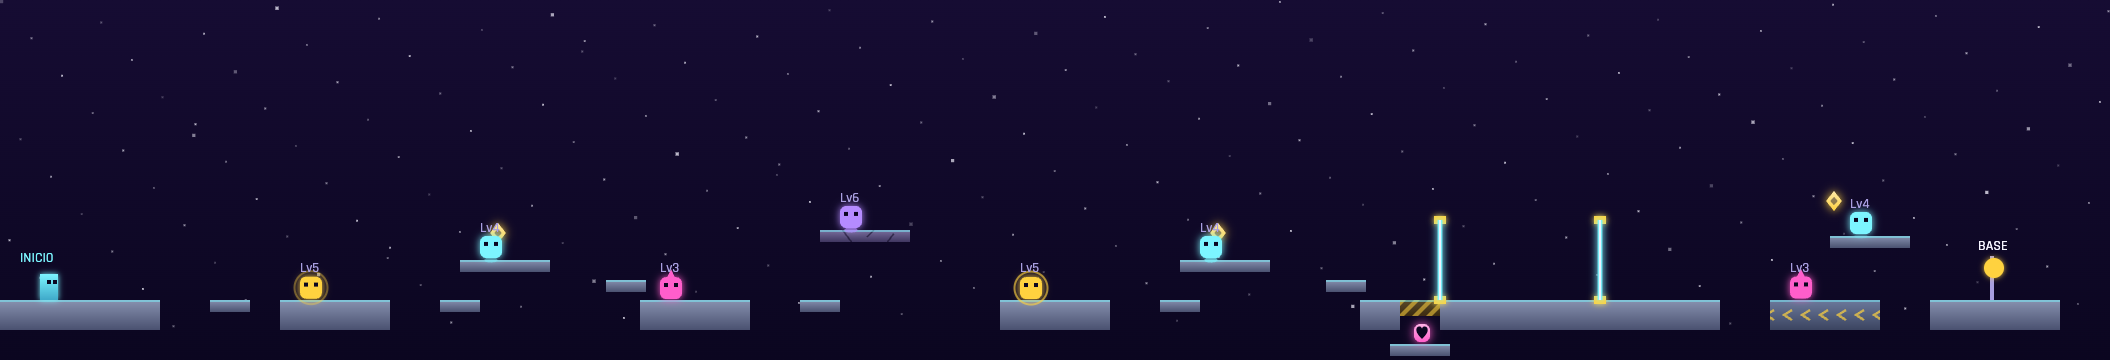
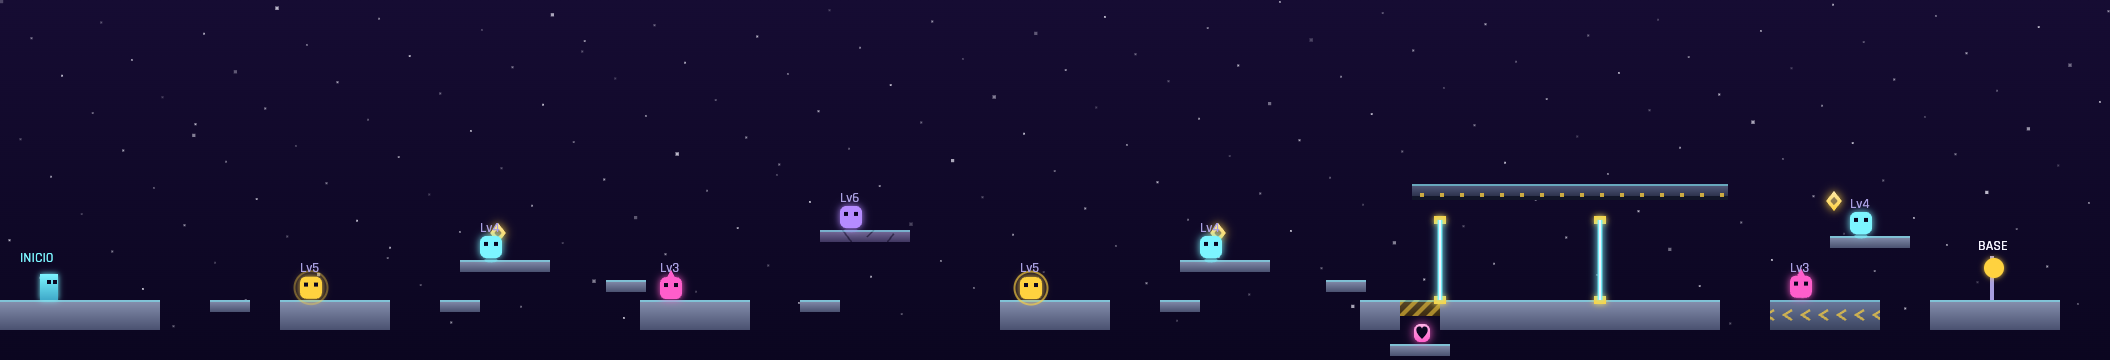
Techos macizos: la única plataforma que no se atraviesa desde abajo
El motor no tiene colisión de techo a propósito — todo se atraviesa
saltando. El variant 'roof' rompe la regla quirúrgicamente: en el
ascenso, la cabeza se frena en seco contra su cara inferior (banda de 10
espejo de la de aterrizaje); encima se aterriza y camina igual que en
cualquier plataforma. Remaches en la cara inferior como lenguaje visual
y aviso de una vez al primer cabezazo.

Colocaciones (dificultad tardía): el pasillo de doble puerta de Bóveda
Sellada y la puerta final de Galería de Ecos quedan sellados — saltar
las puertas con habilidad aérea ya no vale: se cronometran o se paga su
20% —, y los pisos 2-3 de la Torre de Vigía son macizos salvo los dos
aterrizajes de las escaleras (que funcionan saltando A TRAVÉS del piso
desde el peldaño) y las frágiles: el atajo volador de Bolt queda
sellado y el serpentín es la ruta de los cuatro pilotos.

Dos reglas de seguridad fijadas con tests: el BFS invalida la arista
"aterrizar en un techo desde justo debajo", y una regla de holgura
comprueba con la física real que el salto simple pasa limpio bajo todo
techo — el techo castiga la habilidad aérea, nunca la ruta normal.
La Aguja Glacial queda sin techos: sus ascensores chocarían con ellos.

Mapas regenerados de los niveles 10, 11 y Torre; GUIA (leyenda, tabla
de peligros, fichas), README y DESIGN.md §2.33.

Changed region(s): [[0.6469, 0.4889, 0.8318, 0.55]]

diff --git a/__tests__/live.test.js b/__tests__/live.test.js
@@ -819,6 +819,10 @@ describe('Diseño de niveles — completables con salto SIMPLE (Scrap), contra j
             if (a.twin && !visited.has(a.twin)) { visited.add(a.twin); queue.push(a.twin); }
             for (const b of plats) {
                 if (visited.has(b) || b === a) continue;
+                // Un techo macizo ('roof') no se puede aterrizar viniendo de justo debajo: es
+                // la única plataforma que no se atraviesa en el ascenso. Si el despegue queda
+                // bajo su span, la arista no vale (de lado o desde arriba, sí).
+                if (b.variant === 'roof' && b.y < a.y && b.x < a.x + a.w && a.x < b.x + b.w) continue;
                 const gap = Math.max(0, b.x - (a.x + a.w), a.x - (b.x + b.w));
                 const dy = b.y - a.y;
                 const reach = (a.variant === 'ice' && a.w >= 100 && maxIceReach) ? maxIceReach(dy) : maxReach(dy);
@@ -1410,6 +1414,75 @@ describe('Regresión: el salto de Bolt (contra js/entities.js real)', () => {
         expect(bolt.vy).toBeCloseTo(-1.1 + 0.32, 5); // ascenso sostenido del vuelo
         expect(bolt.energy).toBeLessThan(10);        // pagando Energía por tiempo, como siempre
         expect(bolt.y + bolt.h).toBeLessThan(125);   // y de verdad ha ganado altura (asciende ~0.78/frame)
+    });
+});
+
+describe('Techos macizos (variant roof) — no se atraviesan desde abajo (contra el código real)', () => {
+    const parts = { burst: () => {} };
+    // Deja al jugador asentado en el suelo antes de cada maniobra.
+    function settle(p, plats) { for (let i = 0; i < 20; i++) p.update({}, plats, parts); }
+
+    test('el doble salto se estampa contra la cara inferior: corta el ascenso y jamás lo cruza', () => {
+        const { Platform, Player } = loadGame();
+        const ground = new Platform(0, 150, 200, 10);
+        const roof = new Platform(0, 90, 200, 8, 'roof'); // cara inferior en y=98
+        const p = new Player(50, 100, 'kes');
+        settle(p, [ground, roof]);
+        p.update({ Space: true }, [ground, roof], parts); // salto
+        let minY = p.y, bonked = false;
+        for (let i = 0; i < 8; i++) { p.update({}, [ground, roof], parts); minY = Math.min(minY, p.y); }
+        p.update({ Space: true }, [ground, roof], parts); // doble salto cerca del ápice
+        for (let i = 0; i < 60; i++) {
+            p.update({}, [ground, roof], parts);
+            if (p.roofBonk) bonked = true;
+            minY = Math.min(minY, p.y);
+        }
+        expect(bonked).toBe(true);
+        expect(minY).toBeGreaterThanOrEqual(roof.y + roof.h); // la cabeza nunca entra en el techo
+        expect(p.onGround).toBe(true); // y cae de vuelta al suelo con normalidad
+    });
+
+    test('el salto simple bajo el mismo techo pasa limpio, y encima del techo se aterriza normal', () => {
+        const { Platform, Player } = loadGame();
+        const ground = new Platform(0, 150, 200, 10);
+        const roof = new Platform(0, 90, 200, 8, 'roof');
+        const p = new Player(50, 100, 'kes');
+        settle(p, [ground, roof]);
+        p.update({ Space: true }, [ground, roof], parts);
+        let bonked = false;
+        for (let i = 0; i < 60; i++) { p.update({}, [ground, roof], parts); if (p.roofBonk) bonked = true; }
+        expect(bonked).toBe(false); // el techo castiga la habilidad aérea, no el salto normal
+        const q = new Player(50, 40, 'kes'); // cae desde arriba
+        settle(q, [roof]);
+        expect(q.onGround).toBe(true);
+        expect(q.y).toBe(roof.y - q.h); // de pie sobre el techo, como en cualquier plataforma
+    });
+
+    test('regla de diseño: el salto simple desde CUALQUIER plataforma bajo un techo pasa sin tocarlo', () => {
+        // Los techos son obstáculos para la habilidad aérea, jamás para la ruta de salto
+        // simple: si un techo baja (o una plataforma sube) hasta comerse el arco normal,
+        // este test lo canta antes de que un jugador se estampe en una ruta obligatoria.
+        const { LEVELS, Platform, Player } = loadGame();
+        // ápice real del salto simple, medido con la física del motor
+        const g = new Platform(0, 150, 400, 10);
+        const p = new Player(50, 100, 'kes');
+        settle(p, [g]);
+        const y0 = p.y;
+        p.update({ Space: true }, [g], parts);
+        let minY = p.y;
+        for (let i = 0; i < 60; i++) { p.update({}, [g], parts); minY = Math.min(minY, p.y); }
+        const apex = y0 - minY;
+        const offenders = [];
+        LEVELS.forEach(lvl => (lvl.platforms || []).forEach(r => {
+            if (r[4] !== 'roof') return;
+            lvl.platforms.forEach(q => {
+                if (q === r || q[1] <= r[1]) return; // solo plataformas por debajo del techo
+                if (!(q[0] < r[0] + r[2] && r[0] < q[0] + q[2])) return; // sin solape horizontal, no hay choque
+                const headAtApex = q[1] - p.h - apex;
+                if (headAtApex <= r[1] + r[3]) offenders.push(`${lvl.name}: techo y=${r[1]} sobre plataforma y=${q[1]} (cabeza a ${headAtApex.toFixed(1)})`);
+            });
+        }));
+        expect(offenders).toEqual([]);
     });
 });
 

diff --git a/js/levels.js b/js/levels.js
@@ -313,7 +313,12 @@ const LEVELS = [
             // Suelo de la bóveda bajo el refuerzo [700,150,20,8] — como en Cráter de Amerizaje:
             // sin él, Scrap rozaba la cápsula en plena caída y moría (premio y castigo se
             // anulaban), y el agujero quedaba como pozo mortal para cualquier piloto después.
-            [695, 172, 30, 6]
+            [695, 172, 30, 6],
+            // EL PASILLO SELLADO (debut del techo macizo, variant 'roof'): cubre el corredor de
+            // la doble puerta — su cara inferior queda en y=100, así que el salto simple (cabeza
+            // a ~109 desde el suelo) pasa limpio, pero el doble salto/vuelo que hasta ahora
+            // saltaba las puertas por arriba se estampa: aquí las puertas SE CRONOMETRAN.
+            [706, 92, 158, 8, 'roof']
         ],
         // Pasillo de doble puerta desfasada justo tras la bóveda del refuerzo: el set piece del nivel.
         beams: [[720, 110, 40, 0], [800, 110, 40, 75]],
@@ -348,7 +353,11 @@ const LEVELS = [
             // Tramo final añadido al alargar el nivel (huecos ≤25, subida suave de 5).
             [1105, 150, 55, 15], [1185, 145, 45, 6, 'fragile'], [1255, 150, 70, 15],
             // Suelo de la bóveda bajo el refuerzo [945,150,20,8] (ver Bóveda Sellada).
-            [940, 172, 30, 6]
+            [940, 172, 30, 6],
+            // Techo macizo sobre la puerta del tramo final (ver el pasillo sellado de Bóveda
+            // Sellada): cara inferior en y=100 — el salto simple pasa, saltarse la puerta con
+            // habilidad aérea ya no.
+            [1015, 92, 80, 8, 'roof']
         ],
         movingPlatforms: [[368, 95, 36, 6, 16, 0.02], [698, 95, 36, 6, 16, 0.025]],
         beams: [[1040, 110, 40, 0]],
@@ -434,9 +443,16 @@ const LEVELS = [
             // de 85, cruzarla andando (47-49 frames) rozaba su cuenta atrás de 50 y el margen
             // real era de 1-3 frames — injugable. Dos de 38 con temporizador propio se cruzan
             // con margen de sobra... si no te paras en ninguna.
-            [440, 92, 65, 8], [330, 92, 80, 8],
+            // Pisos 2 y 3 con TECHO MACIZO ('roof') salvo dos aterrizajes: [440,92] (donde
+            // desemboca la escalera derecha, saltando A TRAVÉS desde el peldaño) y [26,34]
+            // (ídem con la izquierda) — y las frágiles, que ya tienen su propio drama. Sella
+            // el atajo de Bolt (volar a través de los suelos) sin tocar la ruta de nadie: el
+            // serpentín por las escaleras es LA ruta. Ojo con el margen vertical: desde un
+            // piso (y=92) el salto simple deja la cabeza a ~51, y la cara inferior del techo
+            // de arriba queda en 42 — pasa limpio; el doble salto ahí se estampa (a propósito).
+            [440, 92, 65, 8], [330, 92, 80, 8, 'roof'],
             [215, 92, 38, 8, 'fragile'], [262, 92, 38, 8, 'fragile'],
-            [95, 92, 90, 8], [30, 92, 40, 8],
+            [95, 92, 90, 8, 'roof'], [30, 92, 40, 8, 'roof'],
             // Escalera izquierda (piso 2 → piso 3), en zigzag: arranca en x=34 y no en el borde
             // para no pisar el x=20 del spawn (el BFS de los tests elige como salida la
             // plataforma MÁS ALTA que cubre x=20 — si el peldaño lo cubriera, validaría un
@@ -444,7 +460,7 @@ const LEVELS = [
             [34, 63, 24, 6],
             // Piso 3 (izquierda → derecha), con la meta al final. Sus huecos caen siempre sobre
             // tramo sólido del piso 2 (o del suelo de recogida), nunca sobre un pozo encadenado.
-            [26, 34, 80, 8], [130, 34, 85, 8], [240, 34, 105, 8], [370, 34, 85, 8], [480, 34, 65, 8], [568, 34, 150, 8]
+            [26, 34, 80, 8], [130, 34, 85, 8, 'roof'], [240, 34, 105, 8, 'roof'], [370, 34, 85, 8, 'roof'], [480, 34, 65, 8, 'roof'], [568, 34, 150, 8, 'roof']
         ],
         beams: [[310, 110, 40, 0]],
         enemies: [[180, 138, 'crawler'], [400, 138, 'spiker', 20], [355, 80, 'magnetite'], [130, 77, 'hoverbot', 40], [270, 27, 'ionwisp', 45], [600, 22, 'spiker', 25]],

diff --git a/js/entities.js b/js/entities.js
@@ -279,6 +279,13 @@ class Player {
                 if (this.vy > 0 && this.y + this.h <= p.y + 10) {
                     this.y = p.y - this.h; this.vy = 0; this.onGround = true; this.jumping = false; this.usedAirAbility = false;
                     this.groundPlatform = p; // qué suelo pisas — el frame siguiente decide si resbala (hielo)
+                } else if (p.variant === 'roof' && this.vy < 0 && this.y >= p.y + p.h - 10) {
+                    // Techo macizo ('roof'): la ÚNICA plataforma que no se atraviesa desde
+                    // abajo — el ascenso se corta en seco contra su cara inferior. Banda de 10
+                    // espejo de la de aterrizaje (el ascenso máximo es |jumpPower|=4.3/frame:
+                    // no hay tunneling). Se aterriza encima con normalidad, como cualquiera.
+                    this.y = p.y + p.h; this.vy = 0;
+                    this.roofBonk = true; // lo lee (y limpia) game.js: aviso + partículas
                 }
             }
         });
@@ -727,6 +734,7 @@ class Platform {
         else if (this.variant === 'metal') { grad.addColorStop(0, '#8892b0'); grad.addColorStop(1, '#4a5170'); }
         else if (this.variant === 'reinforced') { grad.addColorStop(0, '#5a4a2a'); grad.addColorStop(1, '#3a2a0f'); }
         else if (this.variant === 'fragile') { grad.addColorStop(0, '#7a6f9e'); grad.addColorStop(1, '#3f3660'); }
+        else if (this.variant === 'roof') { grad.addColorStop(0, '#565e80'); grad.addColorStop(1, '#20253d'); }
         else if (this.variant === 'beltL' || this.variant === 'beltR') { grad.addColorStop(0, '#6c7a9c'); grad.addColorStop(1, '#3b4460'); }
         else { grad.addColorStop(0, PALETTE.panelLight); grad.addColorStop(1, PALETTE.panel); }
         ctx.fillStyle = grad;
@@ -769,6 +777,16 @@ class Platform {
                 ctx.closePath(); ctx.fill();
             }
             ctx.restore();
+        }
+        if (this.variant === 'roof') {
+            // borde inferior grueso + remaches: se lee "macizo, esto no se atraviesa" antes
+            // de estamparse contra él (los demás variantes marcan su rareza por arriba;
+            // este la marca por abajo, que es donde muerde)
+            ctx.fillStyle = '#12162a';
+            ctx.fillRect(sx, this.y + this.h - 2, this.w, 2);
+            ctx.fillStyle = PALETTE.accent3; ctx.globalAlpha = 0.75;
+            for (let rx = 4; rx < this.w - 3; rx += 10) ctx.fillRect(sx + rx, this.y + this.h - 3.5, 2, 2);
+            ctx.globalAlpha = 1;
         }
         ctx.fillStyle = PALETTE.accent; ctx.globalAlpha = 0.5;
         ctx.fillRect(sx, this.y, this.w, 1);

diff --git a/js/game.js b/js/game.js
@@ -1745,6 +1745,12 @@ class Game {
             const level = LEVELS[this.currentLevel];
             let outcome = null;
             if (!this.levelCompleting) outcome = this.player.update(this.keys, this.platforms, this.particles);
+            // Cabezazo contra un techo macizo (variant 'roof'): feedback y aviso de una vez.
+            if (this.player.roofBonk) {
+                this.player.roofBonk = false;
+                this.particles.burst(this.player.x + this.player.w / 2, this.player.y, PALETTE.dim, 5, { speed: 0.8, life: 10, size: 1.5 });
+                this.showHint('roof-bonk', 'Ese techo es macizo: no se atraviesa saltando desde abajo. Rodéalo — busca por dónde quiere el nivel que subas.');
+            }
             if (outcome === 'fell') { this.loseLife(); return; }
             if (this.player.hp <= 0) { this.loseLife(); return; }
             this.particles.update();

diff --git a/GUIA.md b/GUIA.md
@@ -10,6 +10,7 @@ Todo lo que hay en el juego: pilotos, fórmulas de combate, bestiario, estrategi
 - **♥** — cápsula de vida (+1 vida) · **⚡** — célula de energía (+1 Energía máxima, permanente) · **◆ dorado** — Cristal de Señal (objetivo secundario, ver §4c).
 - **Franjas ámbar** en una plataforma — refuerzo que solo Scrap rompe al caminar encima.
 - **Plataforma agrietada** — frágil: se desmorona al pisarla (ver Peligros).
+- **Remaches en la cara inferior** — techo macizo: no se atraviesa saltando desde abajo (ver Peligros).
 - **Raíl punteado vertical** — plataforma móvil que sube y baja por ese recorrido.
 - **Columna cian vertical entre dos emisores ámbar** — puerta de energía (dibujada activa en el mapa).
 - **Chevrones animados** en una plataforma — cinta que te arrastra en esa dirección.
@@ -104,6 +105,7 @@ El Mundo 1 estrena el terreno con un solo giro (el hielo del nivel 2 — que ade
 | **Tormenta iónica** (ciclo de cielo) | Mundo 2 (nivel 5) | Ciclo global de 8,5s: **5s de calma** → **1,5s de aviso** (tinte ámbar, «⚠ TORMENTA INMINENTE») → **2s de descarga** (tinte violeta y rayos). Durante la descarga, estar **al raso** hace 5 de daño con tregua de invulnerabilidad (~hasta 3 golpes si aguantas fuera la descarga entera) | La regla del techo: estás a salvo con **cualquier plataforma sólida encima de la cabeza** — el resplandor cian bajo las plataformas te marca dónde. Corre de refugio en refugio durante la calma; si el aviso te pilla a medias, métete bajo la flotante más cercana o paga el peaje en HP |
 | **Barrido del Centinela** (franja roja en el suelo) | Mundo 2 (nivel 6) | Solo mientras el jefe viva: ciclo de 5s — **3s de calma** → **1s apuntando** (la franja del suelo se enciende en rojo) → **1s de onda** a ras de suelo por TODA su zona. Pisar el suelo durante la onda hace **6 de daño**, con tregua corta (quedarte el barrido entero cuesta dos golpes) | Súbete a una **cobertura elevada** (brillan en cian al apuntar; dos son frágiles...) o gasta habilidad aérea para aguantar en el aire — un salto simple (27f) NO dura lo que la onda (60f). Al ganar el duelo, la zona se apaga |
 | **Puerta de energía** (columna vertical entre emisores) | Mundo 3 (nivel 7) | Bloquea el paso a ras de suelo con ciclo fijo de 2,5s: 1,5s apagada → 0,25s de aviso (chisporroteo) → 0,75s activa. Activa quita un **20% de tu vida máxima** (porcentual: la defensa no lo rebaja; el nodo Aislante lo deja en 10%) y te empuja hacia atrás, con tregua de invulnerabilidad | Tres opciones: **esperar** el ciclo (el chisporroteo es tu semáforo), **saltarla por arriba** con habilidad aérea (40 de alto: el salto simple no llega, el doble salto/vuelo/dash sí — la Energía compra tiempo), o **atravesarla pagando** el 20% de tu vida y aprovechando la tregua — un peaje que ahora se siente: cinco cruces a pelo son casi una vida. Las puertas de un mismo nivel van desfasadas |
+| **Techo macizo** (remaches en la cara inferior) | Mundo 4 (nivel 10) | La única plataforma que **no se atraviesa saltando desde abajo**: el ascenso se corta en seco contra su cara inferior y caes. Encima se aterriza y camina con normalidad | Es un obstáculo para la **habilidad aérea**, nunca para el salto simple (la ruta obligatoria siempre pasa limpia por debajo). Léelo como una señal: si hay techo, el nivel quiere que subas por otro sitio — o que cruces por abajo pagando el peaje que custodia |
 | **Cinta magnética** (chevrones) | Mundo 3 (nivel 9) | Te arrastra ~30% de tu velocidad en la dirección de los chevrones — siempre en contra | Camina sin pararte (avanzas igual, más despacio) y no te detengas cerca de un borde |
 
 Todos los peligros con ciclo van con reloj **de frames, no de tiempo real**: el patrón es idéntico en cualquier máquina, y en el Reto Diario es el mismo para todo el mundo (de los niveles del reto, 1–2, solo el 2 tiene peligro — el hielo, que no depende de ningún reloj).
@@ -243,14 +245,14 @@ El nivel más largo de enemigos antes del [Overlord](#-overlord--núcleo-del-
 
 ![Mapa del nivel 10](guia/nivel-10.png)
 
-El mundo que solo se entiende con Scrap desbloqueado. Mundo 4 = todo junto: un **pasillo de doble puerta desfasada** justo después de la bóveda del refuerzo, un islote **frágil** y una **cinta** en contra en el tramo final.
+El mundo que solo se entiende con Scrap desbloqueado. Mundo 4 = todo junto: un **pasillo de doble puerta desfasada** justo después de la bóveda del refuerzo — ahora **sellado por un techo macizo** (debut): saltar las puertas por arriba con habilidad aérea ya no vale, aquí las puertas **se cronometran** (o se paga su 20%) —, un islote **frágil** y una **cinta** en contra en el tramo final.
 - **♥ Cápsula**: bóveda bajo el **refuerzo ámbar** del último tramo — solo Scrap.
 
 ### Nivel 11 · Galería de Ecos (Núcleo Expuesto)
 
 ![Mapa del nivel 11](guia/nivel-11.png)
 
-Huecos largos estilo Tormenta de Iones, con piedras de paso para la ruta baja — pero una de las piedras es **frágil**, hay **dos móviles** de atajo en la ruta alta, otro islote frágil y una puerta de energía custodiando el tramo tras la bóveda.
+Huecos largos estilo Tormenta de Iones, con piedras de paso para la ruta baja — pero una de las piedras es **frágil**, hay **dos móviles** de atajo en la ruta alta, otro islote frágil y una puerta de energía custodiando el tramo tras la bóveda — con **techo macizo** encima: esa puerta también se cronometra, no se salta.
 - **⚡ Célula**: bóveda bajo el **refuerzo ámbar** cerca del final — solo Scrap. La última mejora permanente del juego.
 
 ### Nivel 12 · Nodo Cero (Núcleo Expuesto) — JEFE FINAL
@@ -269,7 +271,7 @@ La **prueba final del juego, en tres actos**:
 
 ![Mapa del nivel extra](guia/nivel-13.png)
 
-El primer nivel **vertical** del juego: tres pisos (suelo, y=92 y y=34) recorridos en **serpentín** — derecha por el suelo, escalera al fondo derecho, izquierda por el piso 2, escalera en zigzag al fondo izquierdo, y derecha por el piso 3 hasta la BASE, que espera arriba del todo. La separación entre pisos (**58**) no la sube **ni el doble salto** (su ápice + ventana de aterrizaje llega a ~56): de piso a piso solo se sube por los peldaños de las escaleras (subidas de 29, salto simple) — únicamente el vuelo sostenido de Bolt puede saltárselas.
+El primer nivel **vertical** del juego: tres pisos (suelo, y=92 y y=34) recorridos en **serpentín** — derecha por el suelo, escalera al fondo derecho, izquierda por el piso 2, escalera en zigzag al fondo izquierdo, y derecha por el piso 3 hasta la BASE, que espera arriba del todo. La separación entre pisos (**58**) no la sube **ni el doble salto** (su ápice + ventana de aterrizaje llega a ~56): de piso a piso solo se sube por los peldaños de las escaleras (subidas de 29, salto simple). Y desde que los pisos 2-3 son **techo macizo** (remaches en su cara inferior), tampoco el vuelo de Bolt se cuela a través de ellos: solo quedan pasables los dos tramos donde desembocan las escaleras (saltas *a través* desde el peldaño) y las frágiles. El serpentín es LA ruta para los cuatro pilotos.
 
 - **Caerse de un piso cuesta tiempo, no vidas**: cada hueco de los pisos 2-3 tiene suelo debajo (incluido un suelo de recogida bajo la escalera derecha). Los únicos huecos letales son los dos del suelo.
 - El piso 2 se cruza de derecha a izquierda sobre **dos frágiles seguidas** — el peaje del serpentín: crúzalas de una pasada, cada una con su propia cuenta atrás. Si caen contigo, aterrizas en el suelo firme de abajo y a re-subir.

diff --git a/DESIGN.md b/DESIGN.md
@@ -449,3 +449,11 @@ El pisotón era la respuesta universal a todo enemigo con nivel inferior: rentab
 - **Puerta de energía — del daño simbólico al peaje real**: hacía base 4 que `takeDamage` pasaba por la defensa — a media partida quitaba 1 y cruzarla a pelo era gratis. Ahora quita un **20% de la vida máxima sin pasar por la defensa** (el Erizo usa la misma idea con su 10%): un porcentaje pega igual a nivel 1 que a nivel 10, así que la decisión esperar/saltar/pagar no caduca con la progresión. Aislante lo deja en 10% — el nodo gana valor de paso.
 
 Regla que sale de aquí: los daños de contacto «ambientales» (púas, puertas) son **porcentuales sobre la vida máxima e ignoran defensa**; los duelos siguen siendo el territorio de ATQ/DEF. Tormenta, barrido y muro quedan con su daño plano de momento — si la defensa alta los vuelve triviales, ya hay patrón al que migrarlos.
+
+### 2.33 Techos macizos: la única plataforma que no se atraviesa desde abajo
+
+El motor no tiene colisión lateral ni de techo a propósito (§1.2 A) — todo se atraviesa saltando, y ese perdón es parte del control. El variant `roof` rompe la regla quirúrgicamente: en el ascenso (`vy < 0`), la cabeza se frena en seco contra su cara inferior (banda de 10, espejo de la de aterrizaje; el ascenso máximo es 4.3/frame, sin tunneling). Encima se aterriza y camina igual que en cualquier plataforma. Remaches en la cara inferior como lenguaje visual (los demás variantes marcan su rareza por arriba; este muerde por abajo) y aviso de una vez al primer cabezazo.
+
+Para qué sirve (Mundo 4 y Extra — dificultad tardía, como pedía la idea): **quitarle a la habilidad aérea la llave maestra**. Las puertas de energía se saltaban por arriba con doble salto/vuelo/dash; con un techo encima (el «pasillo sellado» de Bóveda Sellada, la puerta final de Galería de Ecos) la puerta se cronometra o se paga — la Energía deja de comprar la salida fácil justo donde el juego debe apretar. Y en la Torre de Vigía sella el atajo de Bolt: los pisos 2-3 son macizos salvo los dos tramos donde desembocan las escaleras (que funcionan saltando A TRAVÉS del piso desde el peldaño — esos jamás pueden ser techo) y las frágiles; el serpentín pasa a ser la ruta de los cuatro pilotos.
+
+Las dos reglas de seguridad, fijadas con tests: (1) el BFS de alcanzabilidad invalida la arista «aterrizar en un techo viniendo de justo debajo» — la ruta obligatoria nunca puede depender de un aterrizaje imposible; (2) regla de holgura: desde cualquier plataforma bajo un techo, el **salto simple pasa limpio** (cabeza en el ápice por debajo de la cara inferior, medido con la física real) — el techo castiga la habilidad aérea, nunca el salto normal de la ruta. La Aguja Glacial queda sin techos de momento: sus ascensores suben al jugador y un techo sobre su recorrido lo aplastaría — si algún día se sellan tramos, lejos de los raíles.

diff --git a/README.md b/README.md
@@ -56,7 +56,7 @@ Todos los niveles se pueden completar con cualquier piloto (verificado por un te
 | 3 · Estación Colapsada | 7 | Muelle de Carga | **Debutan las puertas de energía** (columnas cíclicas que bloquean el paso); despierta el núcleo |
 | | 8 | Túnel de Escape | **Scroll forzado**: tras 5s de cuenta atrás, un muro de energía avanza solo — con islotes frágiles bajo presión |
 | | 9 | Núcleo del Reactor | **Jefe: Overlord** — ignora Defender cada 3 turnos; **debuta la cinta magnética** en contra |
-| 4 · Núcleo Expuesto | 10 | Bóveda Sellada | El mundo que Scrap abre; todos los peligros combinados |
+| 4 · Núcleo Expuesto | 10 | Bóveda Sellada | El mundo que Scrap abre; todos los peligros combinados y **debutan los techos macizos** (no se atraviesan saltando desde abajo) |
 | | 11 | Galería de Ecos | Huecos largos + móviles, frágiles y una puerta de energía |
 | | 12 | Nodo Cero | **La prueba final en 3 actos**: precisión → todos los peligros combinados (tormenta zonal, cinta+puerta, hielo) → huida con el muro detrás. **Jefe final: Nodo Cero**, y al ganar... la Red se derrumba y escapas EN LA NAVE |
 | Extra | 13 | Torre de Vigía | **Vertical en serpentín**: tres pisos, escaleras alternas y la BASE arriba del todo — aparece al reunir **8 ◆** |
